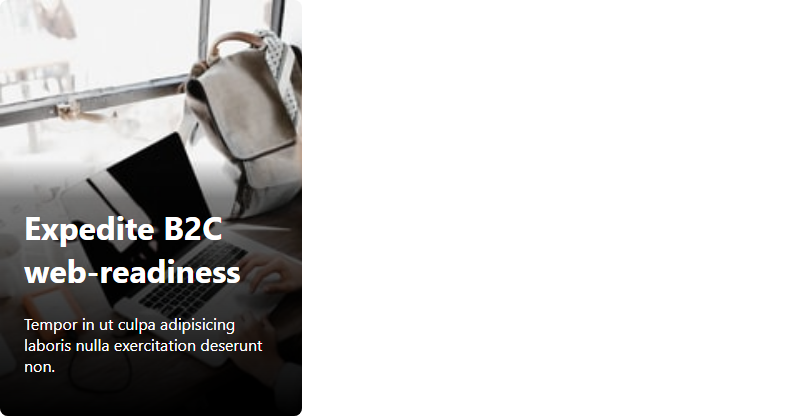
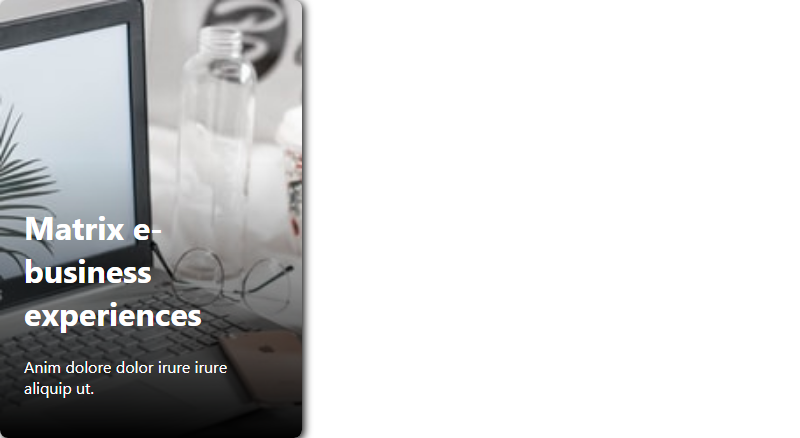
working on getting prismic data fetching working but running into issues with conflicting documentation pages. Will attempt to resolve later

Changed region(s): [[0.0, 0.0, 0.4062, 1.0]]

diff --git a/pages/index.tsx b/pages/index.tsx
@@ -1,32 +1,31 @@
-import type { NextPage } from 'next'
+import type { GetStaticProps, NextPage } from 'next'
+import { createClient } from '../prismic';
 import Link from 'next/link';
 import Image from "next/image";
 import styles from '../styles/Home.module.css';
 import placeholder from '../public/aquarium_current.jpg';
-import ProjectCard from '../components/ProjectCard-demo';
+import ProjectCard from "../slices/ProjectCard/index";
 
-const DummyData = [
-  {
-    imageUrl: "https://images.unsplash.com/photo-1514888286974-6c03e2ca1dba?ixlib=rb-1.2.1&ixid=MnwxMjA3fDB8MHxwaG90by1wYWdlfHx8fGVufDB8fHx8&auto=format&fit=crop&w=1143&q=80"
-  },
-  {
-    imageUrl: "https://images.unsplash.com/photo-1514888286974-6c03e2ca1dba?ixlib=rb-1.2.1&ixid=MnwxMjA3fDB8MHxwaG90by1wYWdlfHx8fGVufDB8fHx8&auto=format&fit=crop&w=1143&q=80"
-  },
-  {
-    imageUrl: "https://images.unsplash.com/photo-1514888286974-6c03e2ca1dba?ixlib=rb-1.2.1&ixid=MnwxMjA3fDB8MHxwaG90by1wYWdlfHx8fGVufDB8fHx8&auto=format&fit=crop&w=1143&q=80"
-  },
-  {
-    imageUrl: "https://images.unsplash.com/photo-1514888286974-6c03e2ca1dba?ixlib=rb-1.2.1&ixid=MnwxMjA3fDB8MHxwaG90by1wYWdlfHx8fGVufDB8fHx8&auto=format&fit=crop&w=1143&q=80"
-  },
-  {
-    imageUrl: "https://images.unsplash.com/photo-1514888286974-6c03e2ca1dba?ixlib=rb-1.2.1&ixid=MnwxMjA3fDB8MHxwaG90by1wYWdlfHx8fGVufDB8fHx8&auto=format&fit=crop&w=1143&q=80"
-  },
-  {
-    imageUrl: "https://images.unsplash.com/photo-1514888286974-6c03e2ca1dba?ixlib=rb-1.2.1&ixid=MnwxMjA3fDB8MHxwaG90by1wYWdlfHx8fGVufDB8fHx8&auto=format&fit=crop&w=1143&q=80"
+
+interface HomeProps {
+  ProjectCards: []
+}
+
+
+const getStaticProps: GetStaticProps = async ({ previewData }) => {
+  const client = createClient({ previewData });
+
+  const ProjectCards = await client.getAllByType("ProjectCard");
+
+  return {
+    props: { ProjectCards }
   }
-]
+}
 
-const Home: NextPage = () => {
+const Home: NextPage<HomeProps> = (props) => {
+
+  const featuredProjectCards = props.ProjectCards;
+  console.log(featuredProjectCards);
   return (
     <main>
       {/* hero section */}
@@ -59,7 +58,7 @@ const Home: NextPage = () => {
       <section role={"projectSection"} id="projects" className={styles.projectsSectionWrapper}>
         <h2>Selected Works</h2>
         <div className={styles.projectsGrid}>
-          {DummyData.map((data) => <ProjectCard key={Math.random()} imageUrl={data.imageUrl} />)}
+          {/* {featuredProjectCards.map((data) => <featuredProjectCards key={Math.random()} imageUrl={data.imageUrl} />)} */}
         </div>
       </section>
     </main>

diff --git a/.slicemachine/assets/slices/ProjectCard/index.stories.js b/.slicemachine/assets/slices/ProjectCard/index.stories.js
@@ -5,5 +5,5 @@ export default {
 }
 
 
-export const _DefaultSlice = () => <MyComponent slice={{"variation":"default-slice","name":"Default slice","slice_type":"project_card","items":[],"primary":{"title":[{"type":"heading1","text":"Expedite B2C web-readiness","spans":[]}],"projectCardDescription":[{"type":"paragraph","text":"Tempor in ut culpa adipisicing laboris nulla exercitation deserunt non.","spans":[]}],"projectImage":{"dimensions":{"width":250,"height":250},"alt":"Placeholder image","copyright":null,"url":"https://images.unsplash.com/photo-1491975474562-1f4e30bc9468?w=250&h=250&fit=crop"},"project":{"link_type":"Web","url":"https://prismic.io"}},"id":"_DefaultSlice"}} />
+export const _DefaultSlice = () => <MyComponent slice={{"variation":"default-slice","name":"Default slice","slice_type":"project_card","items":[],"primary":{"title":[{"type":"heading1","text":"Matrix e-business experiences","spans":[]}],"projectCardDescription":[{"type":"paragraph","text":"Anim dolore dolor irure irure aliquip ut.","spans":[]}],"projectImage":{"dimensions":{"width":250,"height":250},"alt":"Placeholder image","copyright":null,"url":"https://images.unsplash.com/photo-1544731612-de7f96afe55f?w=250&h=250&fit=crop"},"project":{"link_type":"Web","url":"http://google.com"},"isFeaturedProject":false},"id":"_DefaultSlice"}} />
 _DefaultSlice.storyName = 'Default slice'

diff --git a/pages/_app.tsx b/pages/_app.tsx
@@ -1,14 +1,28 @@
 import '../styles/globals.css'
 import type { AppProps } from 'next/app'
+import { PrismicProvider } from '@prismicio/react';
+import { PrismicPreview } from '@prismicio/next';
+import { linkResolver, repoName } from "../prismicConfiguration";
 import Header from '../components/Header'
 import Footer from '../components/Footer'
+import Link from 'next/link';
 
 function MyApp({ Component, pageProps }: AppProps) {
-  return <body>
-    <Header />
-    <Component {...pageProps} />
-    <Footer />
-  </body>
+  return <PrismicProvider
+    linkResolver={linkResolver}
+    internalLinkComponent={({ href, children, ...props }) => (
+      <Link href={href}>
+        <a {...props}></a>
+      </Link>
+    )}>
+    <PrismicPreview repositoryName={repoName}>
+      <body>
+        <Header />
+        <Component {...pageProps} />
+        <Footer />
+      </body>
+    </PrismicPreview>
+  </PrismicProvider>
 }
 
 export default MyApp

diff --git a/prismic.js b/prismic.js
@@ -1,0 +1,29 @@
+import * as prismic from "@prismicio/client";
+import { enableAutoPreviews } from "@prismicio/next";
+import sm from "./sm.json";
+
+export const endpoint = sm.apiEndpoint;
+export const repositoryName = prismic.getRepositoryName(endpoint);
+
+export function linkResolver(doc) {
+  switch (doc.type) {
+    case "ProjectPage":
+      return `/projects/${doc.uid}`;
+    default:
+      return null;
+  }
+}
+
+export function createClient(config) {
+  const client = prismic.createClient(endpoint, {
+    ...config,
+  });
+
+  enableAutoPreviews({
+    client,
+    context: config.context,
+    req: config.req,
+  });
+
+  return client;
+}

diff --git a/pages/projects/[uid].tsx b/pages/projects/[uid].tsx
@@ -1,0 +1,25 @@
+import { GetStaticProps } from 'next';
+import { FC } from 'react';
+import { createClient } from '../../prismic';
+
+export const getStaticProps: GetStaticProps = async ({ params, previewData }) => {
+    const client = createClient({ previewData });
+
+
+    const projectPage = await client.getByUID("ProjectPage", params!.uid);
+
+    return {
+        props: {
+            projectPage
+        }
+    }
+}
+
+
+const project: FC = () => {
+    return (
+        <div>project page</div>
+    )
+}
+
+export default project
